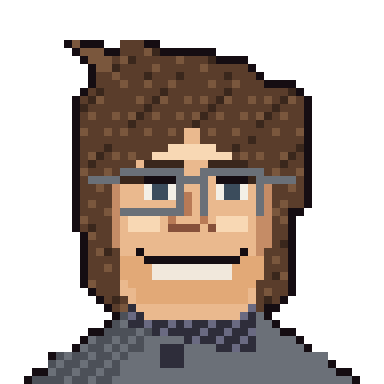
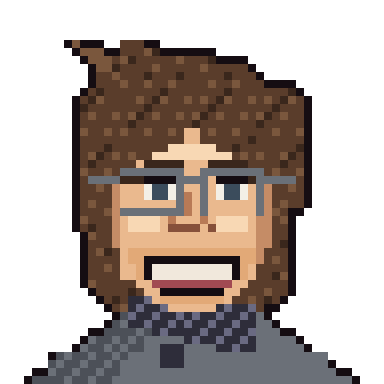
Skip: narrower jaw, open smile with lower lip

Changed region(s): [[0.3125, 0.625, 0.6875, 0.8438], [0.3438, 0.625, 0.375, 0.6875]]

diff --git a/src/characters.js b/src/characters.js
@@ -179,8 +179,8 @@ function paintDealoneFull(cv, st = {}) {
   neckShirt(P, SK2, '#6b7078', '#4c5058', 38, 1.35, 10);   // narrower, athletic shoulders
   for (let y = 36; y < 44; y++) for (let x = 16; x <= 32; x++) { const t = (x - 14) / 22; if (y - 36 < 3 + t * 5 && y - 36 > t * 2 - 1) px(x, y, (x + y) % 3 === 0 ? 'paisley2' : 'paisley'); }   // bandana knot
   px(20, 42, 'paisley', 3, 4);
-  headBase(P, SK2, { rx: 12, ry: 15.5 });                                                    // lean face
-  for (let y = 30; y <= 36; y++) for (let x = 14; x <= 34; x++) if (y <= 36 - Math.max(0, Math.abs(x - 24) - 7) * 1.1) px(x, y, 'skin');   // defined, angular jaw
+  headBase(P, SK2, { rx: 12, ry: 15.5, jaw: false });                                       // lean face
+  for (let y = 29; y <= 36; y++) for (let x = 16; x <= 32; x++) if (y <= 36 - Math.max(0, Math.abs(x - 24) - 4) * 1.3) px(x, y, 'skin');   // narrower jaw tapering to the chin
   // hair on top / fringe falling to the sides, parted in the middle
   for (let y = 5; y <= 22; y++) for (let x = 9; x <= 39; x++) { const part = Math.abs(x - 24), line = 13 + Math.floor(part * 0.5) - (part < 2 ? 2 : 0), inner = part < 11 ? 0 : 1; if (y >= 5 + Math.floor(part / 5) && ((y <= line && part <= 15) || (part >= 12 && y <= 24 && part <= 16))) px(x, y, (x * 2 + y) % 6 < 1 ? 'brownLt' : (x + y) % 9 === 0 ? 'brownDk' : 'brown'); }
   // brows (relaxed, raised), eyes, thin glasses
@@ -189,7 +189,7 @@ function paintDealoneFull(cv, st = {}) {
   for (const gx of [14, 26]) { px(gx, 18, '#6a7078', 9, 1); px(gx, 24, '#6a7078', 9, 1); px(gx, 18, '#6a7078', 1, 7); px(gx + 8, 18, '#6a7078', 1, 7); }
   px(23, 19, '#6a7078', 3, 1); px(10, 19, '#6a7078', 4, 1); px(35, 19, '#6a7078', 4, 1);
   // big smile with teeth
-  px(18, 30, 'ol', 13, 1); px(19, 31, 'tooth', 11, st.talk ? 1 : 2); if (st.talk) px(19, 32, 'mouth', 11, 2); px(20, 33, 'ol', 9, 1); px(17, 29, 'ol', 1, 1); px(31, 29, 'ol', 1, 1);
+  px(18, 30, 'ol', 13, 1); px(19, 31, 'tooth', 11, st.talk ? 1 : 2); if (st.talk) px(19, 32, 'mouth', 11, 2); px(19, 33, '#a24a52', 11, 2); px(20, 35, 'ol', 9, 1); px(18, 31, 'ol', 1, 3); px(30, 31, 'ol', 1, 3);   // upper line, teeth, then a lower lip so it reads as an open smile px(17, 29, 'ol', 1, 1); px(31, 29, 'ol', 1, 1);
   talkAt(P, 19, 31, 11);
   P.outline();
 }

diff --git a/src/version.js b/src/version.js
@@ -1,2 +1,2 @@
 // generated by tools/stamp.mjs
-export const BUILD = { n: 84, time: '2026-10-14T11:42:58.806Z' };
+export const BUILD = { n: 85, time: '2026-10-14T11:46:09.243Z' };
